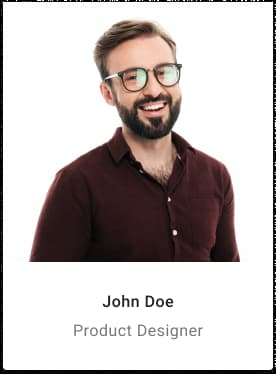
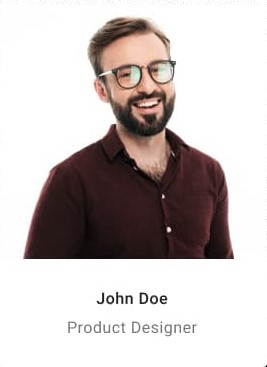
Dopracowanie
1) 25 - zmiana dużych liter namaly
2) Main zostal podzielony na cztery <section>
3) Sekcja "Lorem ipsum" zostala calkiem przerobiona. P.S. mam nadzieje co poprawnie zrozumalem uwagi :)
4) Poprawione zdięcia "nasz zespół"

diff --git a/index.html b/index.html
@@ -22,38 +22,48 @@
 
     <main>
       <section>
-        <h1>EFEKTYWNE ROZWIĄZANIA DLA WASZEGO BIZNESU</h1>
+        <h1>Efektywne rozwiązania dla waszego biznesu</h1>
         <button type="button">Zamów usługe</button>
       </section>
-      <div>
-        <ul>
-          <li>
+      <section>
+        <div>
+          <h3>Lorem ipsum</h3>
+          <p>
             Lorem ipsum dolor sit amet consectetur adipisicing elit. Cum
             similique sapiente sed, ipsum rem eveniet. Unde asperiores
             distinctio est cupiditate perferendis aliquam impedit delectus, vero
             maiores. Voluptatibus non ex libero.
-          </li>
-          <li>
+          </p>
+        </div>
+        <div>
+          <h3>Lorem ipsum</h3>
+          <p>
             Lorem ipsum dolor sit amet consectetur adipisicing elit. Laudantium
             ipsum corporis quidem delectus non reiciendis molestias dolor aut
             nobis blanditiis error, dicta possimus similique hic sequi ex iusto
             accusantium minima?
-          </li>
-          <li>
+          </p>
+        </div>
+        <div>
+          <h3>Lorem ipsum</h3>
+          <p>
             Lorem ipsum, dolor sit amet consectetur adipisicing elit. Nam a
             excepturi vero, voluptatem necessitatibus, dolores laudantium
             quibusdam ullam praesentium voluptate mollitia distinctio non vitae.
             Doloribus possimus commodi quis molestiae beatae!
-          </li>
-          <li>
+          </p>
+        </div>
+        <div>
+          <h3>Lorem ipsum</h3>
+          <p>
             Lorem ipsum dolor sit amet consectetur adipisicing elit. Tenetur
             similique, sapiente ullam dolor aperiam voluptatum! Dolorem repellat
             placeat quidem debitis dolores. Similique, delectus architecto harum
             qui sit tenetur voluptates doloremque.
-          </li>
-        </ul>
-      </div>
-      <div>
+          </p>
+        </div>
+      </section>
+      <section>
         <h2>Czym się zajmujemy</h2>
         <ul>
           <li>
@@ -81,7 +91,7 @@
             />
           </li>
         </ul>
-      </div>
+      </section>
       <section>
         <h2>Nasz zespół</h2>
         <ul>
